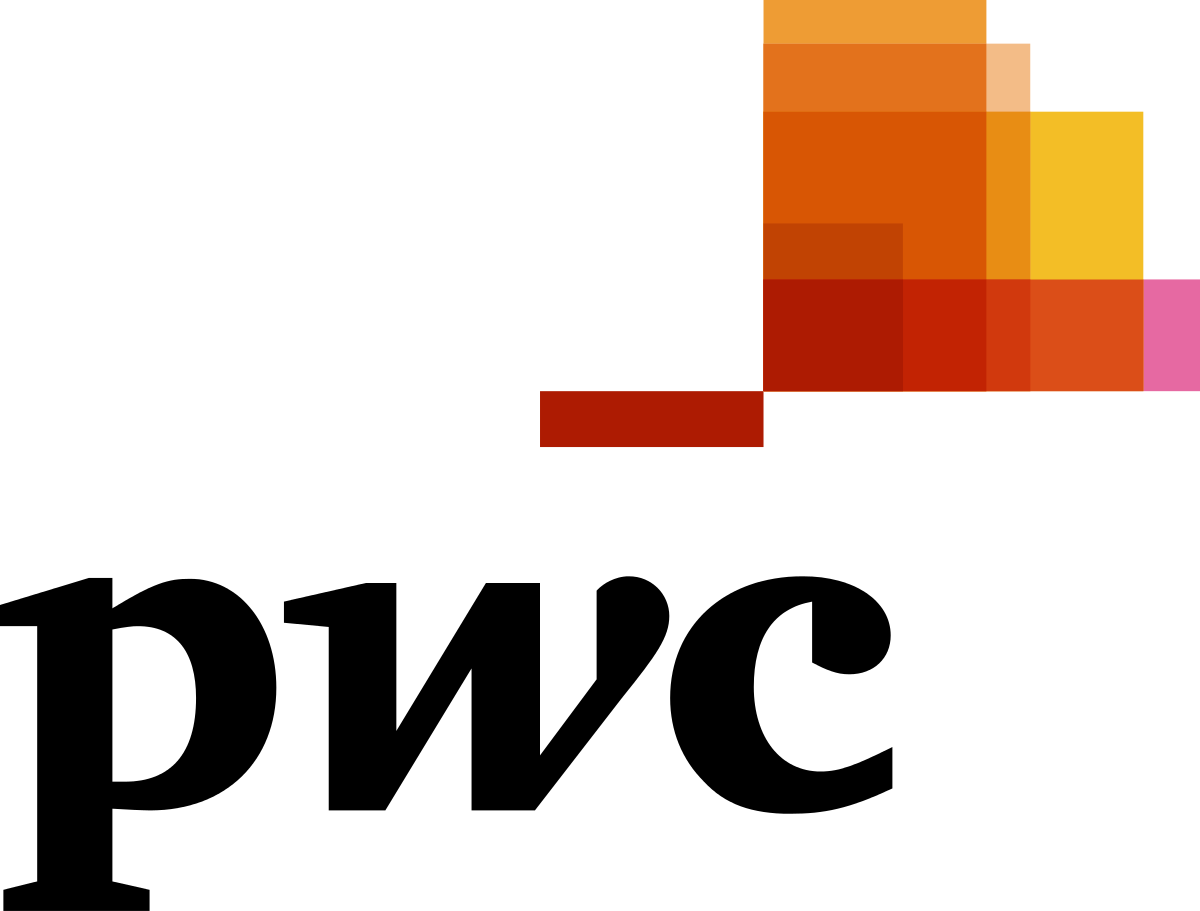
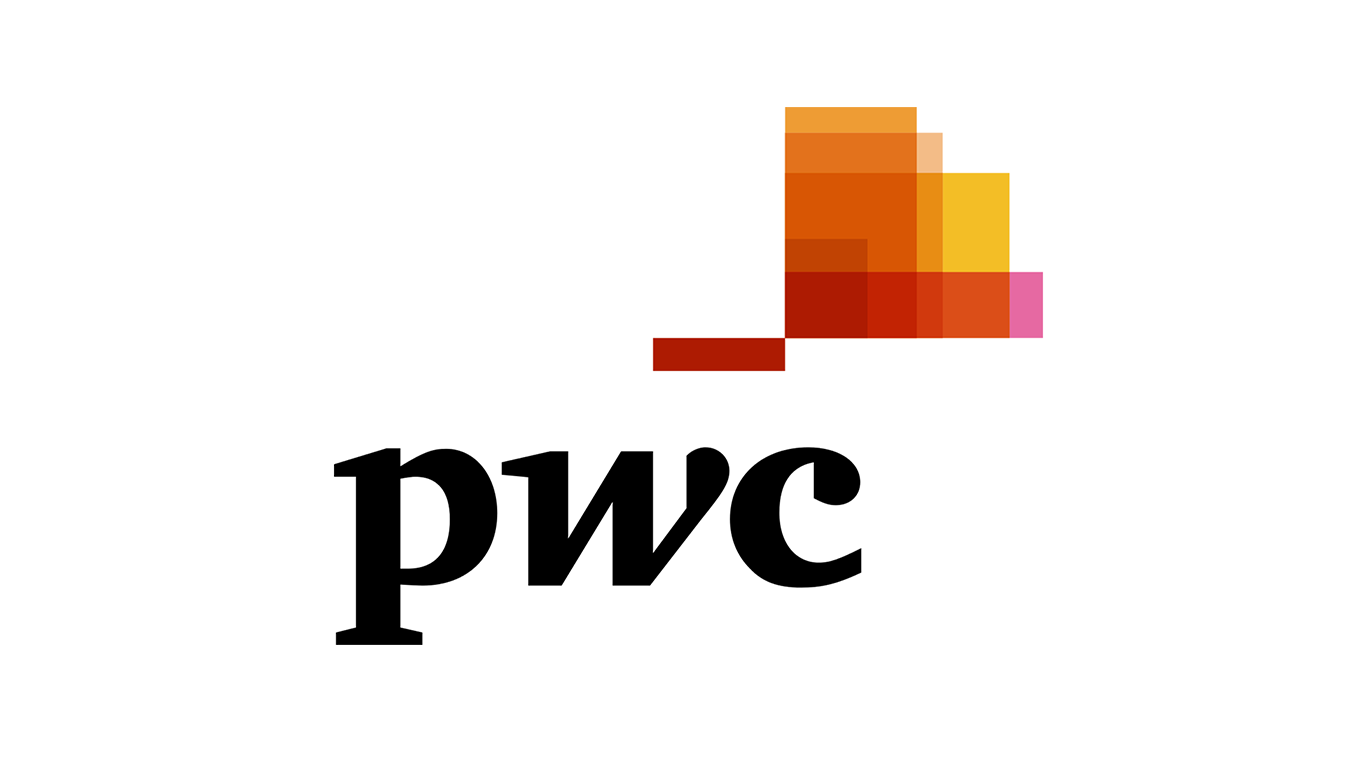
alignment done

Changed region(s): [[0.0, 0.5625, 0.7708, 1.0], [0.4317, 0.0, 1.0, 0.5]]

diff --git a/public/styles.css b/public/styles.css
@@ -314,6 +314,14 @@ button.register:hover{
 	margin-bottom: 30px;
 }
 
+.sponsor_grid{
+	display: flex;
+    flex-direction: column;
+    justify-content: center;
+    align-items: center;
+    text-align: center;
+}
+
 .sponsor_grid img{
 	width: 100%;
 }
